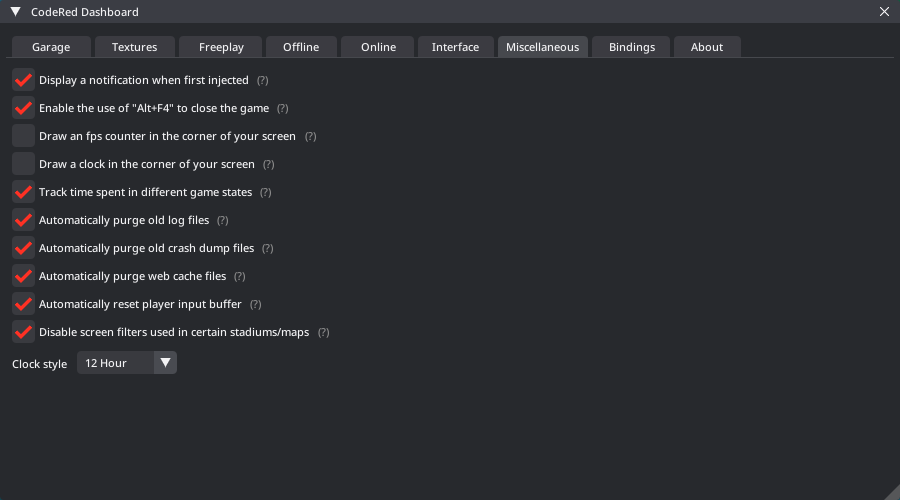
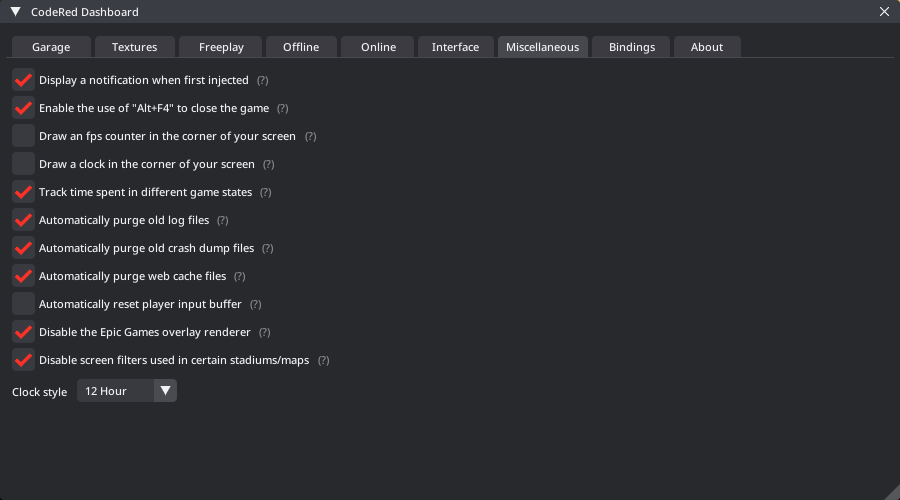
Initial Commit

diff --git a/changelog.html b/changelog.html
@@ -53,6 +53,7 @@
 		    <nav id="docs-nav" class="docs-nav navbar">
 			    <ul class="section-items list-unstyled nav flex-column pb-3">
                     <li class="nav-item section-title mt-3"><a class="nav-link scrollto" href="#section-3"><span class="theme-icon-holder me-2"><i class="fas fa-book"></i></span>Module Changelog</a></li>
+                    <li class="nav-item"><a class="nav-link scrollto" href="#item-3-4-3">Version 2.4.3</a></li>
                     <li class="nav-item"><a class="nav-link scrollto" href="#item-3-4-2">Version 2.4.2</a></li>
                     <li class="nav-item"><a class="nav-link scrollto" href="#item-3-4-1">Version 2.4.1</a></li>
                     <li class="nav-item"><a class="nav-link scrollto" href="#item-3-4-0">Version 2.4.0</a></li>
@@ -249,6 +250,18 @@
 		    <div class="container">
                 <article class="docs-article" id="section-3">
                     <h1 class="docs-heading">Changelog</h1>
+
+                        <section class="docs-section" id="item-3-4-3">
+                            <h2 class="section-heading">Version 2.4.3 (December 9th 2024)</h2>
+                            <h5>- Added a new setting <code>disable_epic_overlay</code> which disables the new Epic Games overlay, this works for both Steam and Epic.</h5>
+                            <h5>- Added the new "Shokunin" car bodies to the anonymizer setting <code>garage_hide_loadouts</code>.</h5>
+                            <h5>- Changed the "ImGui.ini" file to be stored in "CodeRed\Settings" as opposed to the games directory.</h5>
+                            <h5>- Fixed the <code>garage_hide_loadouts</code> setting not working as of the last game update.</h5>
+                            <h5>- Fixed duplicate spawn particles appearing on your car when applying CodeRed loadouts.</h5>
+                            <h5>- Fixed the disable boost pads settings not working properly as of the last game update</h5>
+                            <h5>- Fixed custom post process effects not working on some main menu backgrounds.</h5>
+                            <h5>- Improvements and bug fixes to ImGui related to hooks and global scaling.</h5>
+                        </section>
 
                         <section class="docs-section" id="item-3-4-2">
                             <h2 class="section-heading">Version 2.4.2 (December 3rd 2024)</h2>

diff --git a/documentation.html b/documentation.html
@@ -444,6 +444,10 @@
                                         <th class="theme-bg-light"><b>manager_purge_logs &lttrue-false&gt</b></th>
                                         <td>Automatically deletes old "Launch.log" backups in your log folder on game launch.</td>
                                     </tr>
+                                    <tr>
+                                        <th class="theme-bg-light"><b>disable_epic_overlay &lttrue-false&gt</b></th>
+                                        <td>Disables the Epic Games Overlay from running.</td>
+                                    </tr>
                                 </tbody>
                             </table>
                         </div>
